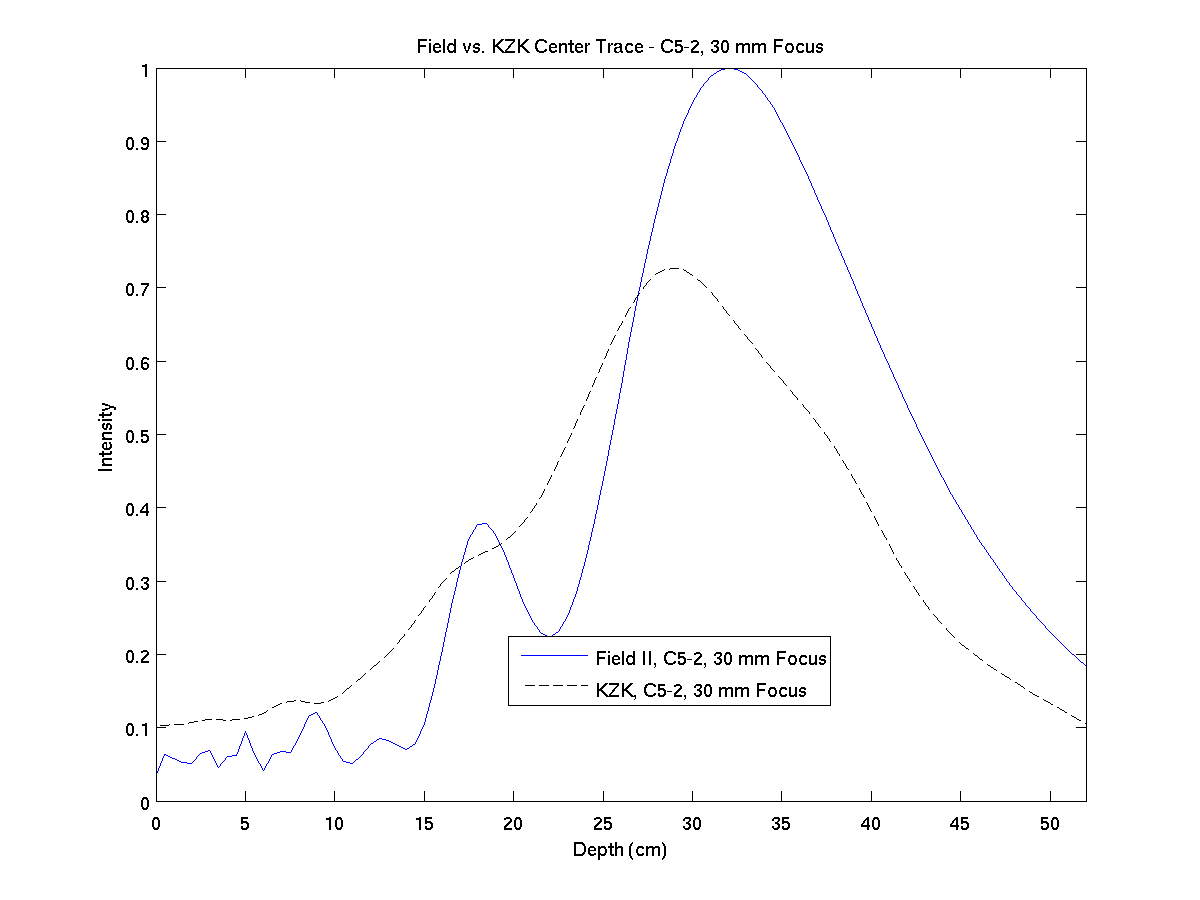
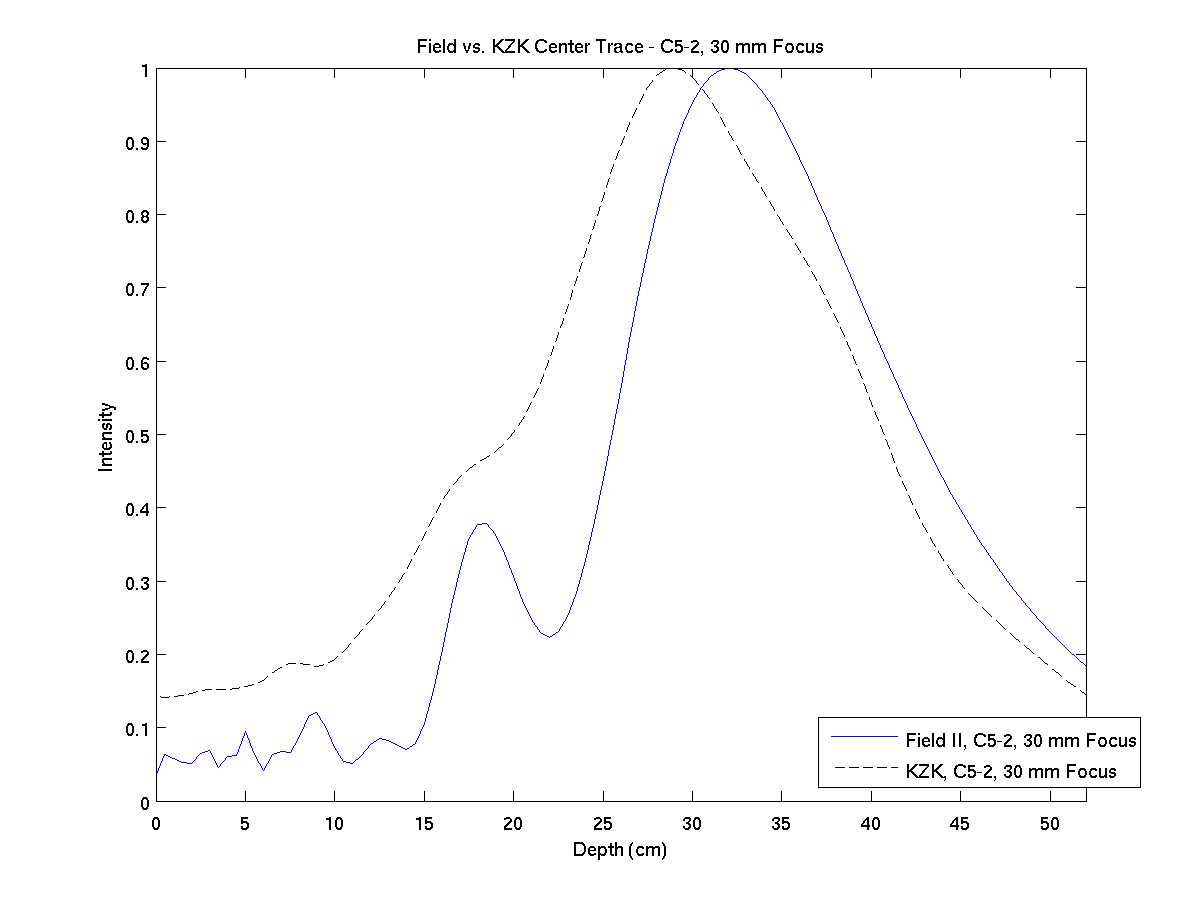
normalized axial intensities for creating center trace plot

Changed region(s): [[0.74, 0.8089, 0.9558, 0.8711], [0.4933, 0.7156, 0.6783, 0.7778]]

diff --git a/metrics/centertrace.m b/metrics/centertrace.m
@@ -55,6 +55,7 @@ for i = 1:intensityPlotCount
     depth = squeeze(varargin{3*(i-1)+2});
     intensityAlongCenterTrace = varargin{3*(i-1)+1}(end, 1, :);
     intensityAlongCenterTrace = squeeze(intensityAlongCenterTrace);
+    intensityAlongCenterTrace = intensityAlongCenterTrace./max(intensityAlongCenterTrace);
     % The following piece of weird arithmetric logic is because in order to
     % get indices in terms of MATLAB conventions, we need to subtract 1 from
     % our number, perform the mod operation, then re-add the 1.
@@ -75,7 +76,7 @@ hold off
 
 title(PlotTitle)
 xlabel('Depth (cm)')
-ylabel('Intensity')
+ylabel('Normalized Intensity')
 % Axis settings assume depth values are extremely similar between plotted 
 % intensity data sets. Also assumes intensity values are correctly normalized
 % to be between 0 and 1.
